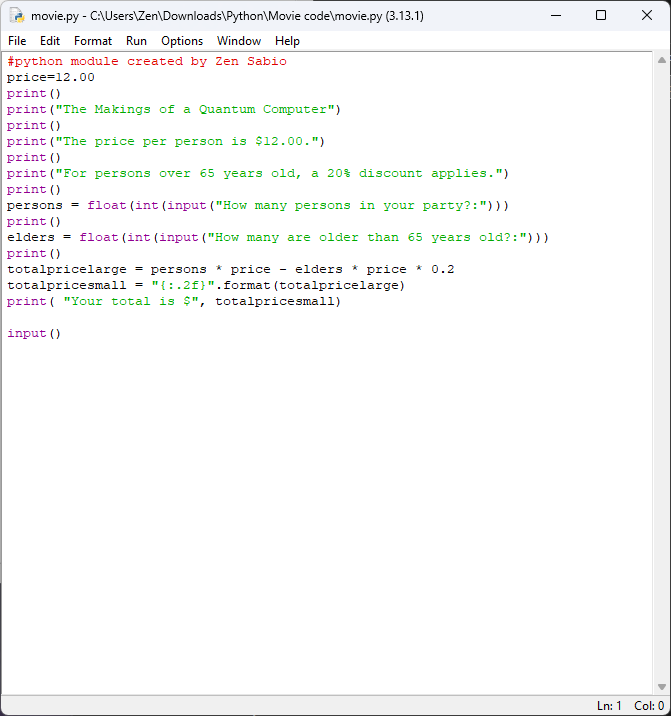
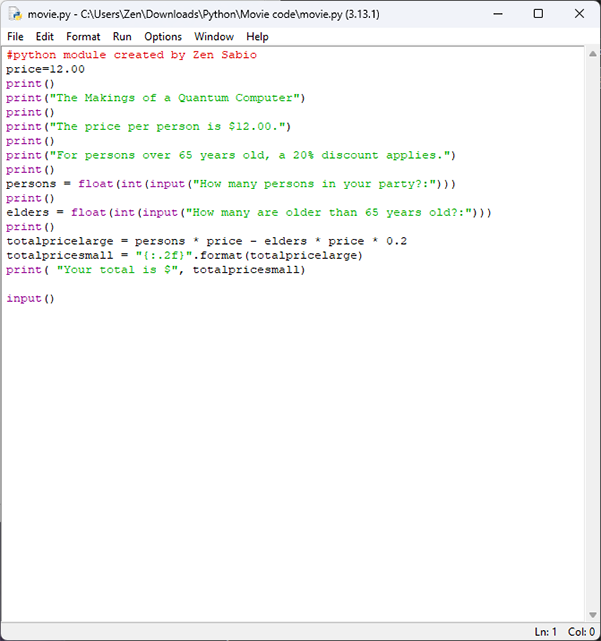
more work on style/changed tab layouts of port

diff --git a/portfolio.html b/portfolio.html
@@ -58,27 +58,27 @@
 				
 				<div id="train" class="tabcontent_2">
 					<img src="images/trainproject.jpg" alt="">
-					<p class="d-texts">This image showcases a scooter I designed. This was my second project, made with Cinema 4D. It was primarily constructed using primitives, with a couple of modifiers for the wheels and board. I used textures from the C4D library. The rendering was done using Redshift.</p>
+					<p class="fig-texts">This is a work-in-progress model of a train inspired by the A train. I used a reference image as the base model and adapted it into a skyrail train. I still need to add lighting, textures, and a background environment. My goal with this piece is to capture a retro-futuristic feel while planning to adopt a more realistic overall style compared to the more stylized appearance of my other works.</p>
 				</div>
 	
 				<div id="scooter" class="tabcontent_2">
 					<img src="images/scooter_img.png" alt="">
-					<p class="d-texts"> The third image showcases a scooter I designed. This was my second project, made with Cinema 4D. It was primarily constructed using primitives, with a couple of modifiers for the wheels and board. I used textures from the C4D library. The rendering was done using Redshift.</p>
+					<p class="fig-texts"> This is a scooter I designed. This was my second project, made with Cinema 4D. It was primarily constructed using primitives, with a couple of modifiers for the wheels and board. I used textures from the C4D library. The rendering was done using Redshift.</p>
 				</div>
 	
 				<div id="Key" class="tabcontent_2">
-					<img src="images/key_img.png" alt="">
-					<p class="d-texts">The second image is of a key created for my 3D animation project. The design was based on an antique key; I wanted to give the key an antique and fantasy feel. My process involved using a reference image of a key and then adding more detailed elements based on my own design.</p>
+					<img src="images/key_render_lights_text_01_0001.png" alt="">
+					<p class="fig-texts">This is a key designed for a scene in my 3D animation project where a door is unlocked. The design was inspired by an antique key. My aim was to create a key that combines both fantasy and realism, blurring the line between imagination and reality. To start the design process, I chose a reference image, which acted as a foundation. I then incorporated intricate details, such as the crystal in the center of the key and the one attached to the end of the chain. Most of the work on these details was accomplished using the lathe tool in Cinema 4D.</p>
 				</div>
 	
 				<div id="l&k" class="tabcontent_2">
 					<img src="images/Key-Render0228.jpg" alt="">
-					<p class="d-texts"> The fourth image is part of my 3D animation project. The interior environment's atmosphere is inspired by an abandoned house. I created the atmosphere using a mood board and reference images. I also created all the models and textures, which I crafted in Photoshop using the paint and smudge tools to achieve a hand-painted feel in the design.</p>
+					<p class="fig-texts"> This is a screenshot of the interior of my 3D animation project. The atmosphere of the interior environment is inspired by an abandoned house. I developed this atmosphere using a mood board and reference images. I also created all the models and textures, which I designed in Photoshop with the paint and smudge tools to achieve a hand-painted look.</p>
 				</div>
 	
 				<div id="rifle" class="tabcontent_2">
-					<img src="images/rifle_wip.jpg" alt="">
-					<p class="d-texts"> The fifth image is a rifle model I created using a reference image. My primary goal with this model is to familiarize myself with Blender and enhance my skills in the software. Eventually, I plan to use the model to create a 3D animation.</p>
+					<img src="images/rifle_render2_28_25.png" alt="">
+					<p class="fig-texts"> This image showcases a rifle model I created using a reference image. The design is intentionally crafted to match a low-poly and stylized aesthetic. My primary goal with this model is to familiarize myself with Blender and improve my skills in the software. To create the model, I first started with a circle in Blender as the base for the stock. I then built forward to create the entire stock, while the barrel began with a simple cylinder. The model's main use will be for FPS animations.</p>
 				</div>
 				
 			</div>
@@ -86,10 +86,51 @@
 
 		</div>
 		<div id="3DAni" class="tabcontent">
-			<div class="game_background">
-				<iframe class="game_container" src="https://drive.google.com/file/d/1RE_1xWb3uKaZrdg54poSMVJjNZwiGBiJ/preview" width="640" height="480" allow="autoplay"></iframe>
-				<p class="java_des">This is a short film I made for my Animation class; it was submitted to the BMCC 2024 Film Festival.</p>
+
+			<div class="tab_2">
+
+				<button class="tablinks" id="tab_nested_links" onclick="openNestedContent(event, 'rif-ani')" id="defaultNestedOpen">Rifle Animation</button>
+				<button class="tablinks" id="tab_nested_links" onclick="openNestedContent(event, 'l-k-ani')">Lock & Key Animation</button>
+				<button class="tablinks" id="tab_nested_links" onclick="openNestedContent(event, 'fire-ani')">Bonfire Animation</button>
+
 			</div>
+
+			<div id="l-k-ani" class="tabcontent_2">
+				<iframe src="https://drive.google.com/file/d/1RE_1xWb3uKaZrdg54poSMVJjNZwiGBiJ/preview" width="640" height="480" allow="autoplay"></iframe>
+
+				<div class="fig-texts">
+					
+					<p>This is my first 3D animation project, and it was submitted to the BMMC Film Festival. The task required me to create an animation where a key is broken from a rock and used to unlock a door to a house. The atmosphere of the interior environment is inspired by an abandoned house. I developed this atmosphere using a mood board and reference images. I also created all the models and textures, which I designed in Photoshop with the paint and smudge tools to achieve a hand-painted look. The animation was rendered as PNGs and imported into After Effects for additional work, including sound and effects. I would say this project is not fully complete, as I want to address the camera clipping through the wall and slow down the animation in Cinema 4D instead of After Effects to avoid the choppiness seen in the video</p>
+
+					<a target="_blank" rel="noopener noreferrer" href="https://www.figma.com/design/3a36ZvXG35plIv4fvHgchz/Zsabio-MMP-200-Final?m=auto&t=drT9bhxHf2YzTYuQ-1">View File</a>
+				</div>
+
+			</div>
+
+			<div id="fire-ani" class="tabcontent_2">
+				<iframe src="https://drive.google.com/file/d/1kp98D--Zgt7TbYY15VKA5hMmHKoip86Q/preview" width="640" height="480" allow="autoplay"></iframe>
+
+				<div class="fig-texts">
+					
+					<p>I modeled a short 3D animation of a bonfire in Blender. I achieved the fire effects primarily using a material I created, incorporating Voronoi textures and color ramps. To create the ripple effect, I used an icosphere with a subdivision surface and a displacement modifier applied to it, while an empty object is used in the displacement modifier, and moved along the X-axis. This project aimed to create a bonfire that could be used as a game or short animation, matching a cartoon or animated style.</p>
+
+					<a target="_blank" rel="noopener noreferrer" href="https://www.figma.com/design/3a36ZvXG35plIv4fvHgchz/Zsabio-MMP-200-Final?m=auto&t=drT9bhxHf2YzTYuQ-1">View File</a>
+				</div>
+
+			</div>
+
+			<div id="rif-ani" class="tabcontent_2">
+				<iframe src="https://drive.google.com/file/d/1GFfuDtM2DapEQypySfewRlcBPpdtxcOD/preview" width="640" height="480" allow="autoplay"></iframe>
+
+				<div class="fig-texts">
+					
+					<p>A first-person animation created using the previous rifle model and an arm rig by DJMaesen on Sketchfab, this is my first attempt at an FPS animation. The primary purpose was to develop my skills and familiarity with rigs and bones in Blender. I added grease pencil effects in Blender to the animation to give it a more cartoony look and to help hide the choppiness and unrealistic aspects of the animation. I also want to eventually add a reload animation and a muzzle flash when the rifle is fired.</p>
+
+					<a target="_blank" rel="noopener noreferrer" href="https://www.figma.com/design/3a36ZvXG35plIv4fvHgchz/Zsabio-MMP-200-Final?m=auto&t=drT9bhxHf2YzTYuQ-1">View File</a>
+				</div>
+
+			</div>
+
 		</div>
 		<div id="jscript" class="tabcontent">
 			<div class="game_background">
@@ -101,19 +142,40 @@
 			</div>
 		</div>
 		<div id="py" class="tabcontent">
-			<div class="game_background">
-				<div class="code_imgs">
-					<div class="statecode">
-						<img src="images/python_code_img1.png" alt="fire" width="650">
-						<a class="download_texts_code" onclick="confirm_function()" href="Python/Moviecode.zip" download="moviecode">Download File</a>
-					</div>
-					<div class="moviecode">
-						<img src="images/python_code_img2.png" alt="fire" width="650">
-						<a class="download_texts_code" onclick="confirm_function()" href="Python/Pythonstatelookup.zip" download="Pythonstatelookup">Download File</a>
-					</div>
-				</div>
-				<p class="java_des">These are some Python programs created for my Principles of Information Technology and Computation course.</p>
+
+			<div class="tab_2">
+
+				<button class="tablinks" id="tab_nested_links" onclick="openNestedContent(event, 'movie')" id="defaultNestedOpen">Movie Code</button>
+				<button class="tablinks" id="tab_nested_links" onclick="openNestedContent(event, 'state')">State Code</button>
+
 			</div>
+
+			<div id="movie" class="tabcontent_2">
+				<img class="code-img" src="images/python_code_img1.png" alt="">
+
+				<div class="fig-texts">
+					
+					<p>For this project, I created a Python program that calculates the total cost of movie tickets for a group, factoring in a senior discount. I began by setting a flat ticket price of $12.00. The script then uses the input() function to prompt the user for two pieces of information: the total number of people in their party and how many of them are over 65 years old.</p>
+
+					<p>If any members of the group are seniors, the program automatically applies a 20% discount to their individual ticket prices. The rest of the group pays the full price. I used simple arithmetic to calculate the discounted and full-price portions, then formatted the final amount to two decimal places for readability. At the end, the program prints the total amount due. A final input() call pauses the program so the user can see the result before the window closes.</p>
+
+					<a target="_blank" rel="noopener noreferrer" href="https://www.figma.com/design/3a36ZvXG35plIv4fvHgchz/Zsabio-MMP-200-Final?m=auto&t=drT9bhxHf2YzTYuQ-1">View File</a>
+				</div>
+
+			</div>
+
+			<div id="state" class="tabcontent_2">
+				<img class="code-img" src="images/python_code_img2.png" alt="">
+
+				<div class="fig-texts">
+
+					<p>For this project, I was tasked with writing a Python program that allows users to look up U.S. state names based on their two-letter postal abbreviations. To accomplish this, I used a pre-written file called stateCd.py, which contains dictionaries mapping full state names to abbreviations and vice versa. In my script, I focused on the reverse lookup feature, importing the abbrev_to_us_state dictionary and using the input() function in a loop. The loop keeps prompting the user to enter a state abbreviation (like "NY" or "CA") and returns the corresponding full state name (like "New York" or "California") if the abbreviation is valid. If the user types "NO," the loop ends and the program says goodbye.</p>
+
+					<a target="_blank" rel="noopener noreferrer" href="https://www.figma.com/design/3a36ZvXG35plIv4fvHgchz/Zsabio-MMP-200-Final?m=auto&t=drT9bhxHf2YzTYuQ-1">View File</a>
+				</div>
+
+			</div>
+
 		</div>
 		<div id="w/a" class="tabcontent">
 			<div class="tab_2">

diff --git a/Portfolio/ZSabio_p5_assignment_Ver_12_Final_copy_2025_01_25_04_37_35/sketch.js b/Portfolio/ZSabio_p5_assignment_Ver_12_Final_copy_2025_01_25_04_37_35/sketch.js
@@ -72,6 +72,8 @@ function preload() {
   logoImg = loadImage("sprites/tilelogo.gif");
 }
 
+let musicPlaying = false;
+
 function setup() {
   createCanvas(600, 400);
 
@@ -80,7 +82,7 @@ function setup() {
   enemy1 = Enemy();
   points.push(Star());
 
-  backGroundmusic.loop(true);
+  /*backGroundmusic.loop(true);*/
 
   startButton = Button(75, 370, playButtonImg);
   controlsButton = Button(533, 370, instrButtonImg);
@@ -90,6 +92,14 @@ function setup() {
 
 function draw() {
   background(220);
+
+  if (gameState === 2 && !musicPlaying) {
+    backGroundmusic.loop();
+    musicPlaying = true;
+  } else if (gameState !== 2 && musicPlaying) {
+    backGroundmusic.stop();
+    musicPlaying = false;
+  }
 
   if (gameState == 0) {
     startMenu();
@@ -141,6 +151,11 @@ function gameOver() {
   image(gameOverScreen, width / 2, height / 2);
   image(logoImg, width / 2, height - 100);
 
+  if (backGroundmusic.isPlaying()) {
+    backGroundmusic.stop();
+    musicPlaying = false;
+  }
+
   tryAgainButton.display();
 
   titleButton.display();
@@ -157,6 +172,11 @@ function gameOver() {
 function winScreen() {
   image(winScreenImg, width / 2, height / 2);
   image(logoImg, width / 2, height - 100);
+
+  if (backGroundmusic.isPlaying()) {
+    backGroundmusic.stop();
+    musicPlaying = false;
+  }
 
   tryAgainButton.display();
 

diff --git a/style.css b/style.css
@@ -496,24 +496,9 @@ ul {
 	margin-right: 10%;
 	border-radius: 10px;
 }
-.code_imgs {
-	display: flex;
-	justify-content: right;
-}
-.code_imgs img {
-	max-width: 100%;
-	box-shadow: 0px 10px 20px rgba(0, 0, 0, 0.5);
-	border-radius: 8px;
-}
-.statecode {
-	position: relative;
-	border-radius: 8px;
-	padding: 1%;
-}
-.moviecode {
-	position: relative;
-	border-radius: 8px;
-	padding: 1%;
+.tabcontent_2 iframe {
+	border-width: 0;
+	padding-right: 260px;
 }
 .imgs_container {
 	display: block;
